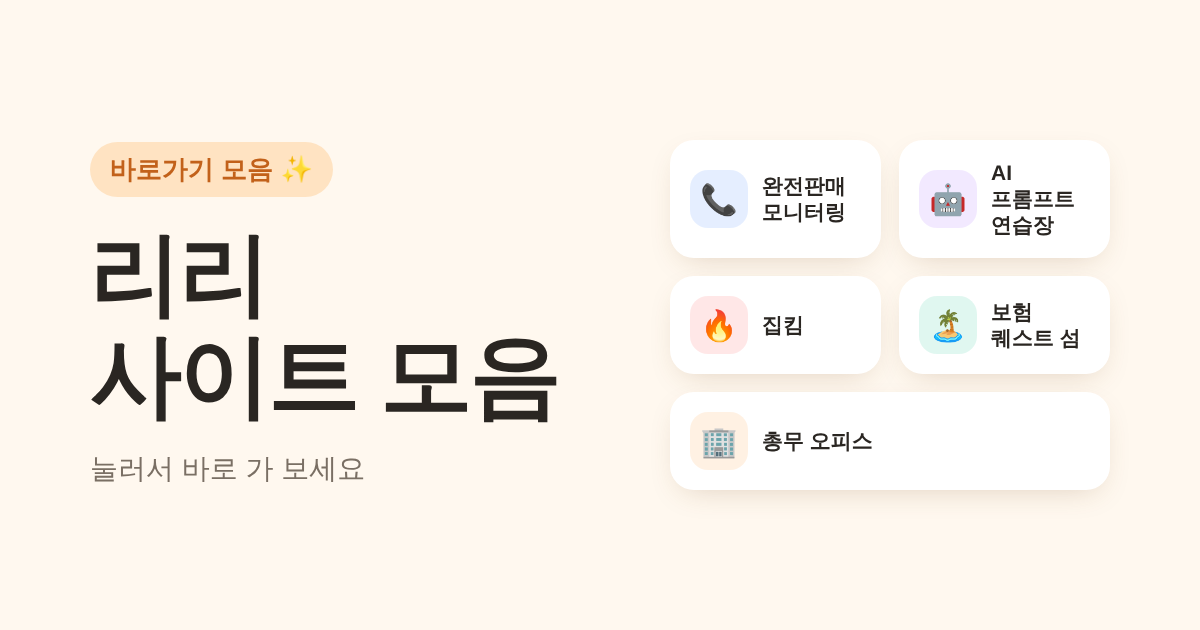
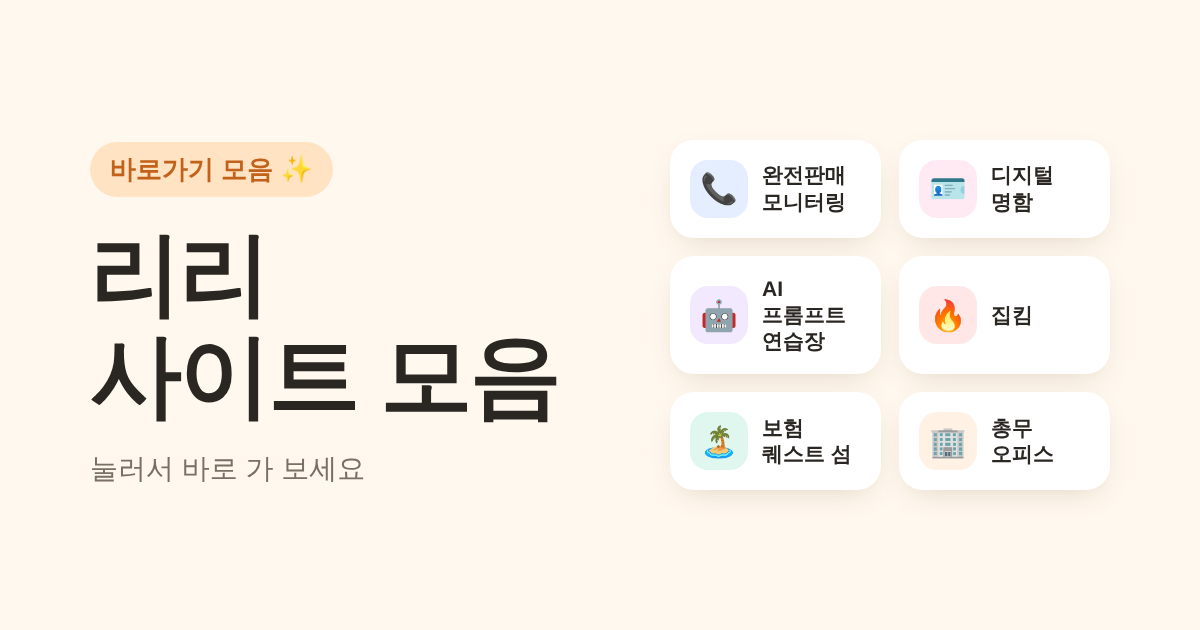
디지털 명함 추가 (두 번째), 공유 이미지 갱신
Claude-Session: https://claude.ai/code/session_01P8u7JTUUr1CgfAM1ZrrBcQ

Changed region(s): [[0.555, 0.2413, 0.925, 0.573], [0.555, 0.6333, 0.8633, 0.7841]]

diff --git a/index.html b/index.html
@@ -4,11 +4,11 @@
 <meta charset="UTF-8">
 <meta name="viewport" content="width=device-width, initial-scale=1.0">
 <title>리리 사이트 모음</title>
-<meta name="description" content="업무 · 공부 · 놀이 사이트 5개를 한곳에서, 눌러서 바로 가 보세요">
+<meta name="description" content="업무 · 공부 · 놀이 사이트들을 한곳에서, 눌러서 바로 가 보세요">
 <meta property="og:type" content="website">
 <meta property="og:url" content="https://bborami.github.io/sites/">
 <meta property="og:title" content="리리 사이트 모음">
-<meta property="og:description" content="업무 · 공부 · 놀이 사이트 5개를 한곳에서, 눌러서 바로 가 보세요">
+<meta property="og:description" content="업무 · 공부 · 놀이 사이트들을 한곳에서, 눌러서 바로 가 보세요">
 <meta property="og:image" content="https://bborami.github.io/sites/og-image.png">
 <meta property="og:image:width" content="1200">
 <meta property="og:image:height" content="630">
@@ -21,7 +21,7 @@
 <style>
   :root{
     --bg:#0f1115; --fg:#f4f5f7; --muted:#a3a8b3; --line:rgba(255,255,255,.12);
-    --c1:#4f8cff; --c2:#ff9f43; --c3:#ff5d5d; --c4:#2ecc9a; --c5:#a66bff;
+    --c1:#4f8cff; --c2:#ff9f43; --c3:#ff5d5d; --c4:#2ecc9a; --c5:#a66bff; --c6:#ff6fae;
   }
   *{box-sizing:border-box;margin:0;padding:0}
   html,body{height:100%;background:var(--bg);color:var(--fg);
@@ -55,7 +55,7 @@
   .hero h1{font-size:clamp(32px,5vw,56px);font-weight:800;letter-spacing:-.02em;line-height:1.2}
   .hero h1 em{font-style:normal;background:linear-gradient(90deg,var(--c1),var(--c4));-webkit-background-clip:text;background-clip:text;color:transparent}
   .hero p.lead{margin-top:14px;color:var(--muted);font-size:clamp(15px,1.6vw,18px)}
-  .grid{margin-top:44px;display:grid;grid-template-columns:repeat(5,1fr);gap:18px}
+  .grid{margin-top:44px;display:grid;grid-template-columns:repeat(3,1fr);gap:18px}
   .card{display:flex;flex-direction:column;gap:12px;padding:24px;border-radius:20px;
     background:rgba(255,255,255,.04);border:1px solid var(--line);transition:transform .25s,border-color .25s,background .25s}
   .card:hover{transform:translateY(-6px);border-color:var(--accent);background:rgba(255,255,255,.07)}
@@ -103,10 +103,7 @@
   .two{display:grid;grid-template-columns:1fr 1fr;gap:12px}
 
   /* 반응형 */
-  @media (max-width:1200px){
-    .grid{grid-template-columns:repeat(3,1fr)}
-  }
-  @media (max-width:1000px){
+    @media (max-width:1000px){
     .grid{grid-template-columns:repeat(2,1fr)}
     .site{grid-template-columns:1fr;gap:28px}
     .mock{display:none}
@@ -146,29 +143,35 @@
           <p>보험사별 모니터링 번호와 무이자 할부 정보를 한곳에서</p>
           <div class="row"><button data-go="1">자세히</button><a class="go" href="https://bborami.github.io/monitoring/" target="_blank" rel="noopener">바로가기 →</a></div>
         </div>
+        <div class="card" style="--accent:var(--c6)">
+          <div class="ico">🪪</div>
+          <h3>디지털 명함</h3>
+          <p>입력만 하면 완성되는 온라인 명함, 링크로 카톡 공유까지</p>
+          <div class="row"><button data-go="2">자세히</button><a class="go" href="https://bborami.github.io/BusinessCard/" target="_blank" rel="noopener">바로가기 →</a></div>
+        </div>
         <div class="card" style="--accent:var(--c5)">
           <div class="ico">🤖</div>
           <h3>AI 프롬프트 연습장</h3>
           <p>네 칸만 채우면 AI에게 보낼 부탁 글이 완성돼요</p>
-          <div class="row"><button data-go="2">자세히</button><a class="go" href="https://bborami.github.io/fp-prompt-lab/" target="_blank" rel="noopener">바로가기 →</a></div>
+          <div class="row"><button data-go="3">자세히</button><a class="go" href="https://bborami.github.io/fp-prompt-lab/" target="_blank" rel="noopener">바로가기 →</a></div>
         </div>
         <div class="card" style="--accent:var(--c3)">
           <div class="ico">🔥</div>
           <h3>집킴</h3>
           <p>우리 집 가입금액 계산부터 보험료 비교까지, 화재보험 가이드</p>
-          <div class="row"><button data-go="3">자세히</button><a class="go" href="https://jipkim.vercel.app/" target="_blank" rel="noopener">바로가기 →</a></div>
+          <div class="row"><button data-go="4">자세히</button><a class="go" href="https://jipkim.vercel.app/" target="_blank" rel="noopener">바로가기 →</a></div>
         </div>
         <div class="card" style="--accent:var(--c4)">
           <div class="ico">🏝</div>
           <h3>보험 퀘스트 섬</h3>
           <p>게임처럼 깨는 보험 자격시험 공부 (내부 교육용)</p>
-          <div class="row"><button data-go="4">자세히</button><a class="go" href="https://bborami.github.io/variable-quest-island/" target="_blank" rel="noopener">바로가기 →</a></div>
+          <div class="row"><button data-go="5">자세히</button><a class="go" href="https://bborami.github.io/variable-quest-island/" target="_blank" rel="noopener">바로가기 →</a></div>
         </div>
         <div class="card" style="--accent:var(--c2)">
           <div class="ico">🏢</div>
           <h3>총무 오피스</h3>
           <p>지금 다들 뭐 하는지 3D 사무실에서 한눈에</p>
-          <div class="row"><button data-go="5">자세히</button><a class="go" href="https://bborami.github.io/riri-playground/" target="_blank" rel="noopener">바로가기 →</a></div>
+          <div class="row"><button data-go="6">자세히</button><a class="go" href="https://bborami.github.io/riri-playground/" target="_blank" rel="noopener">바로가기 →</a></div>
         </div>
       </div>
     </div>
@@ -206,11 +209,45 @@
     </div>
   </section>
 
-  <!-- 3. AI 프롬프트 연습장 -->
+  <!-- 3. 디지털 명함 -->
+  <section class="page siteview" data-title="디지털 명함" style="--accent:var(--c6)">
+    <div class="inner site">
+      <div>
+        <div class="num">02 · 영업 도구</div>
+        <h2>디지털 명함</h2>
+        <span class="tag">내 디지털 명함 만들기</span>
+        <p class="desc">사진, 이름, 소개, 연락 정보를 입력하면 휴대폰 화면에서 바로 확인하면서 온라인 명함을 만들 수 있어요. 완성된 명함은 링크로 카카오톡이나 문자로 보내면 돼요.</p>
+        <ul class="feat">
+          <li>입력하는 대로 바뀌는 실시간 휴대폰 미리보기</li>
+          <li>사진 · 회사 로고 · 배경색, 보유자격 블록 표시</li>
+          <li>나만의 명함 링크 만들기 · 복사 · 이미지로 저장</li>
+        </ul>
+        <a class="btn" href="https://bborami.github.io/BusinessCard/" target="_blank" rel="noopener">사이트 바로가기 →</a>
+        <div class="url">bborami.github.io/BusinessCard</div>
+      </div>
+      <div class="mock" aria-hidden="true">
+        <div class="bar"><i></i><i></i><i></i><b>bborami.github.io/BusinessCard</b></div>
+        <div class="body">
+          <div class="tile" style="flex-direction:column;align-items:flex-start;gap:6px;padding:20px">
+            <div style="font-size:44px">🧑💼</div>
+            <div style="font-size:18px;font-weight:700">이름 · 소개</div>
+            <div class="chips"><span class="on">보유자격</span><span>자격 추가</span></div>
+          </div>
+          <div class="two">
+            <div class="tile">📷 사진 · 로고</div>
+            <div class="tile">🎨 배경색</div>
+          </div>
+          <div class="tile">🔗 내 명함 링크 <small>복사 · 이미지 저장</small></div>
+        </div>
+      </div>
+    </div>
+  </section>
+
+  <!-- 4. AI 프롬프트 연습장 -->
   <section class="page siteview" data-title="AI 프롬프트 연습장" style="--accent:var(--c5)">
     <div class="inner site">
       <div>
-        <div class="num">02 · AI 활용</div>
+        <div class="num">03 · AI 활용</div>
         <h2>AI 프롬프트 연습장</h2>
         <span class="tag">설계사를 위한 AI 프롬프트 연습</span>
         <p class="desc">역할, 상황, 조건, 형식 네 칸만 채우면 챗GPT나 제미나이에 보낼 부탁 글(프롬프트)이 완성되는 연습장이에요. 상담 준비, 고객 연락, 콘텐츠, 분석 예시 33개로 바로 연습할 수 있어요.</p>
@@ -238,11 +275,11 @@
     </div>
   </section>
 
-  <!-- 4. 집킴 -->
+  <!-- 5. 집킴 -->
   <section class="page siteview" data-title="집킴" style="--accent:var(--c3)">
     <div class="inner site">
       <div>
-        <div class="num">03 · 고객 안내</div>
+        <div class="num">04 · 고객 안내</div>
         <h2>집킴</h2>
         <span class="tag">우리집 화재보험 가이드</span>
         <p class="desc">아파트 화재보험, 얼마로 어떤 담보를 넣어야 할지 알려 주는 가이드예요. 가입금액 계산부터 보험사별 보험료 비교, 가입 전 체크리스트까지 한 번에 볼 수 있어요.</p>
@@ -267,11 +304,11 @@
     </div>
   </section>
 
-  <!-- 5. 보험 퀘스트 섬 -->
+  <!-- 6. 보험 퀘스트 섬 -->
   <section class="page siteview" data-title="보험 퀘스트 섬" style="--accent:var(--c4)">
     <div class="inner site">
       <div>
-        <div class="num">04 · 내부 교육</div>
+        <div class="num">05 · 내부 교육</div>
         <h2>보험 퀘스트 섬</h2>
         <span class="tag">게임처럼 깨는 자격시험 공부</span>
         <p class="desc">변액 · 생명 · 손해보험 자격시험을 퀘스트처럼 풀어 보는 내부 교육용 사이트예요. 모의고사 문제와 해설로 함께 공부할 수 있어요.</p>
@@ -295,11 +332,11 @@
     </div>
   </section>
 
-  <!-- 6. 총무 오피스 -->
+  <!-- 7. 총무 오피스 -->
   <section class="page siteview" data-title="총무 오피스" style="--accent:var(--c2)">
     <div class="inner site">
       <div>
-        <div class="num">05 · 팀 놀이터</div>
+        <div class="num">06 · 팀 놀이터</div>
         <h2>총무 오피스</h2>
         <span class="tag">지금 다들 뭐 하는지 한눈에</span>
         <p class="desc">팀원들의 지금 상태를 3D 사무실로 보여 주는 사이트예요. 상태를 바꾸면 내 캐릭터가 그 구역으로 걸어가요.</p>
